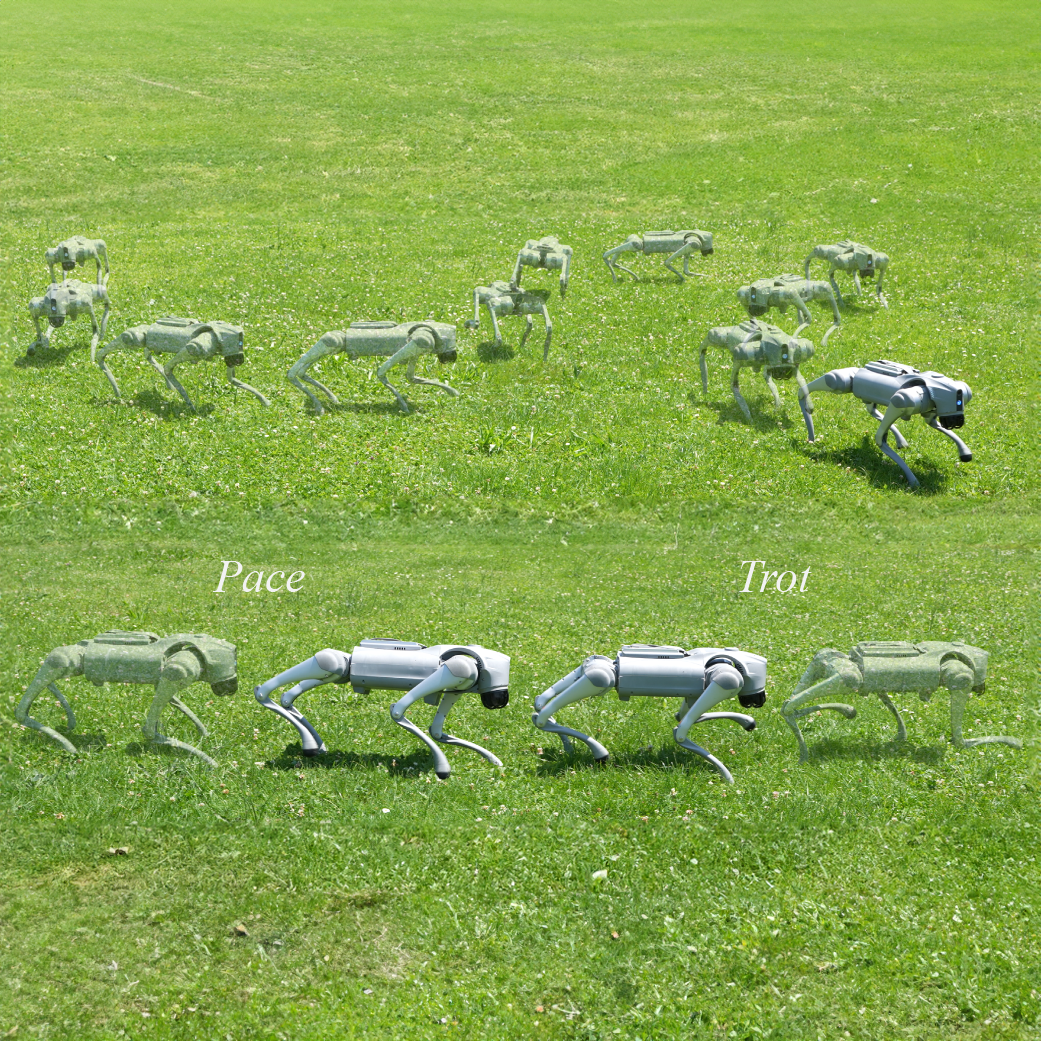
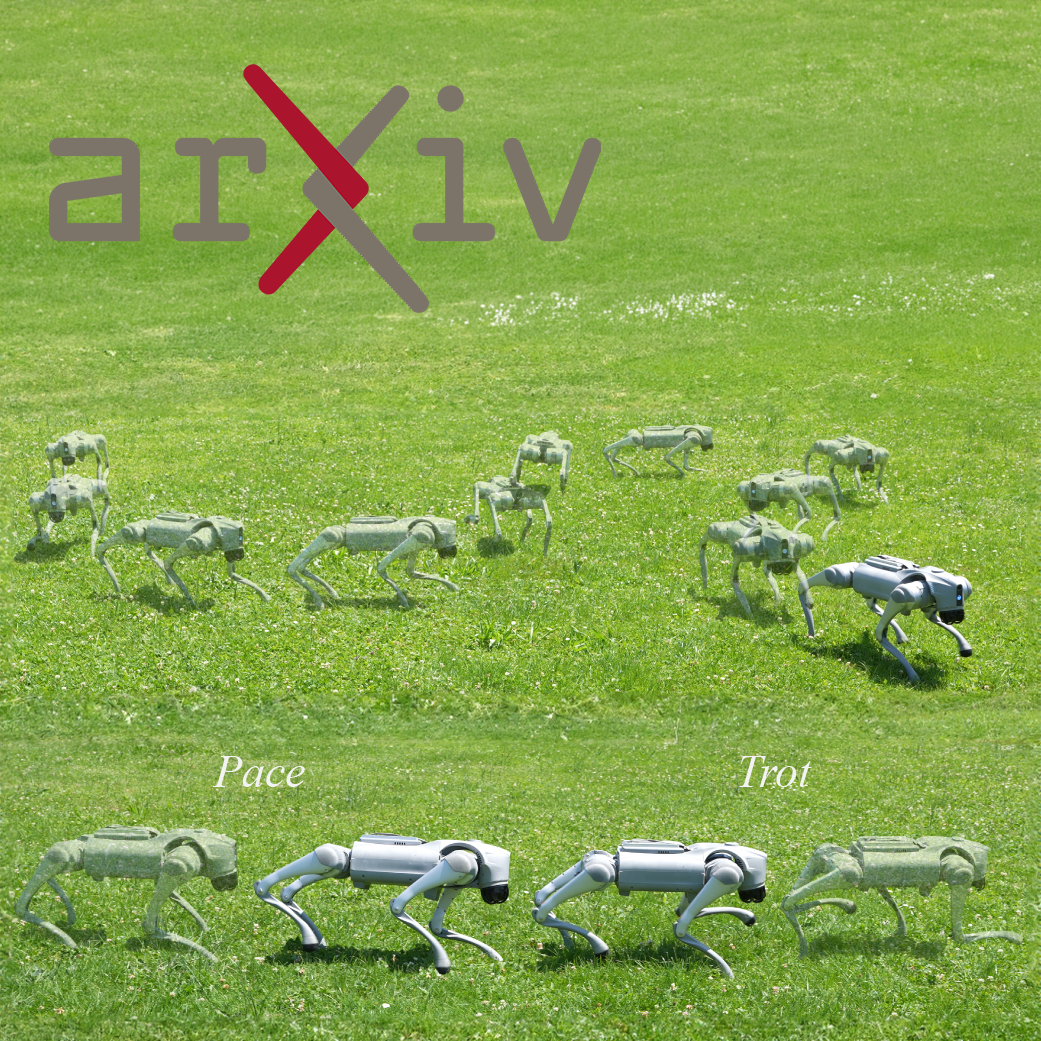
apex got in and steerable not

diff --git a/_news/apex.md b/_news/apex.md
@@ -1,0 +1,8 @@
+---
+layout: post
+date: 2026-06-17 10:00:00-0400
+inline: true
+related_posts: false
+---
+
+📑 I am happy to share my collaboration work with [Multi-Agent Robotic Motion Laboratory](https://www.marmotlab.org/) at National University of Singapore, *APEX: Action Priors Enable Efficient Exploration for Robust Motion Tracking on Legged Robots* has been accepted for publication in the Proceedings of 2026 IEEE/RSJ International Conference on Intelligent Robots and Systems (IROS 2026).